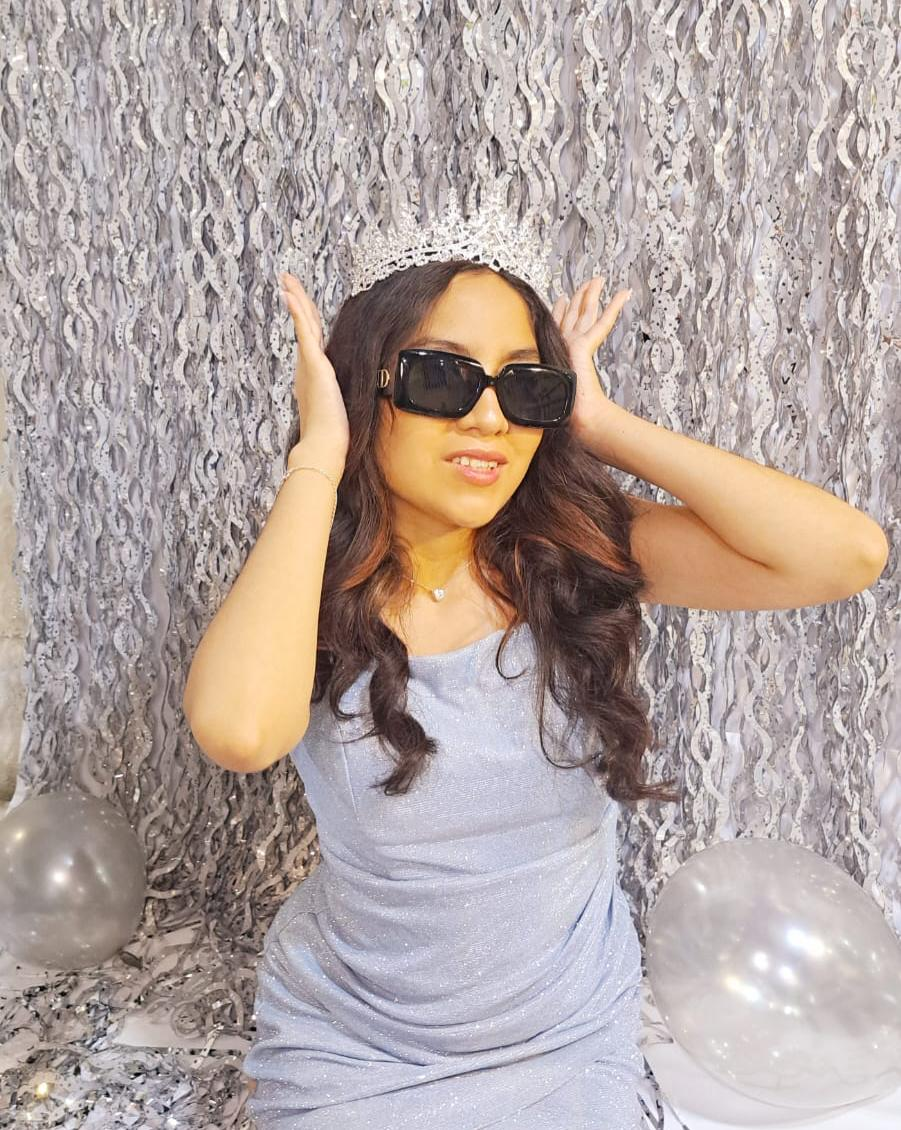
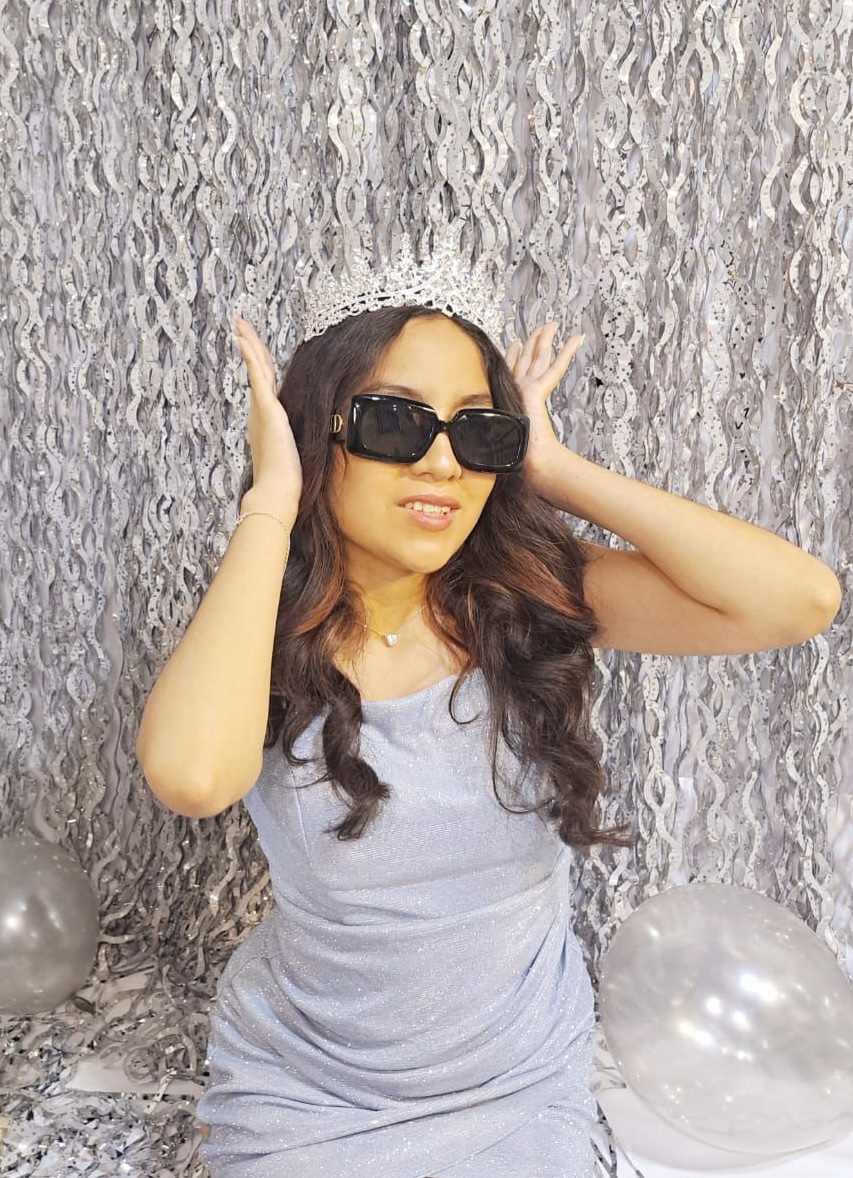
changes

diff --git a/index.html b/index.html
@@ -15,16 +15,16 @@
     <!-- Preconnect and Load Fonts -->
     <link rel="preconnect" href="https://fonts.googleapis.com">
     <link rel="preconnect" href="https://fonts.gstatic.com" crossorigin>
-    <link href="https://fonts.googleapis.com/css2?family=Cormorant+Infant:ital,wght@0,300..700;1,300..700&amp;family=Imperial+Script&amp;display=swap" rel="stylesheet">
+    <link href="https://fonts.googleapis.com/css2?family=Cormorant+Infant:ital,wght@0,300..700;1,300..700&family=Dancing+Script:wght@400..700&display=swap" rel="stylesheet">
     <script src="https://cdn.lordicon.com/lordicon.js"></script>
 </head>
 <body>
-
+    <div id="star-container"></div>
     <!-- Sobre de la Invitación -->
     <div id="envelope">
         <div id="envelope-top"></div>
         <div id="seal">
-            <h2 class="fade-in-element visible" style="transition-delay: 0s;">Mis Quince Tita</h2>
+            <h2 class="fade-in-element visible" style="transition-delay: 0s;">Mis Quince Carmencita</h2>
         </div>
         <div id="envelope-bottom"></div>
     </div>
@@ -40,7 +40,7 @@
 
         <!-- 1. Foto de la quinceañera -->
         <div class="section-main fade-in-element">
-            <img src="/imagenes/main.png" alt="Foto de la quinceañera" width="100%">
+            <img src="/imagenes/foto-principal (6).png" alt="Foto de la quinceañera" width="100%">
         </div>
 
         <!-- 2. Fecha de los quinceaños -->
@@ -84,7 +84,7 @@
         <!-- 3 & 4. Bendición y Padres -->
         <div class="section-b fade-in-element">
             <p>Agradecidos con Dios y bajo su bendición, queremos celebrar los quinceaños de nuestra amada princesita.</p>
-            <h1>Lusi Armando</h1>
+            <h1>Luis Armando</h1>
             <h2>&</h2>
             <h1>Alma Edith</h1>
         </div>
@@ -107,7 +107,7 @@
                 colors="primary:#d4af37,secondary:#F0F8FF"
                 style="width:200px;height:200px">
             </lord-icon>
-            <p>Para nosotros es muy importante que confirmes tu asistencia antes del 20 de Julio, o bien indicarnos si no podrás acompañarnos.</p>
+            <p>Para nosotros es muy importante que confirmes tu asistencia antes del 20 de Junio, o bien indicarnos si no podrás acompañarnos.</p>
             <button onclick="confirmarAsistencia()">Confirmar</button>
             <div id="confirmacion"></div>
         </div>
@@ -119,25 +119,6 @@
 
         <!-- 5 & 6. Itinerario -->
         <div class="section fade-in-element">
-            <div class="ceremony fade-in-element">
-                <lord-icon
-                    src="https://cdn.lordicon.com/jqmftaai.json"
-                    trigger="loop"
-                    delay="2000"
-                    stroke="light"
-                    colors="primary:#d4af37,secondary:#F0F8FF"
-                    style="width:200px;height:200px">
-                </lord-icon>
-                <h2>Ceremonia</h2>
-                <p>Pendiente</p>
-                <div class="details">
-                    <div class="time-location">
-                        <span class="time">18:30 hrs</span>
-                    </div>
-                    <p>pendiente</p>
-                    <button type="button" class="direction-button" onclick="elegirAplicacionOtraDireccion()">Cómo llegar</button>
-                </div>
-            </div>
             <div class="party fade-in-element">
                 <lord-icon
                     src="https://cdn.lordicon.com/nsgykrsg.json"
@@ -172,7 +153,7 @@
                 colors="primary:#d4af37,secondary:#F0F8FF"
                 style="width:200px;height:200px">
             </lord-icon>
-            <h2>Lluvia de Sobres</h2>
+            <h2>Lluvia de  Sobres</h2>
             <p>Lo que más queremos es compartir contigo nuestro gran día, pero agradecemos mucho el gesto de un obsequio. Tendremos un cofre en la entrada para que puedas dejar tu sobre con efectivo</p>
             <p>¡Gracias!</p>
         </div>
@@ -200,15 +181,10 @@
         <!-- Dress Code -->
         <div class="section fade-in-element">
             <h2>Dress Code</h2>
-            <lord-icon
-                src="https://cdn.lordicon.com/okgbpdra.json"
-                trigger="loop"
-                delay="2000"
-                stroke="light"
-                colors="primary:#d4af37,secondary:#F0F8FF"
-                style="width:200px;height:200px">
-            </lord-icon>
-            <p>Celeste y azul reservado para la quinceañera</p>
+            <div class="section fade-in-element">
+              <img src="/imagenes/dress-code.png"  alt="Icono Dress Code" class="dress-icon">           
+              <p>Celeste y azul reservado para la quinceañera</p>
+            </div>
         </div>
 
         <!-- Div decorativo -->
@@ -274,5 +250,6 @@
 
     <script src="/loads.js"></script>
     <script src="/script.js"></script>
+    <script src="/starfalls.js"></script>
 </body>
 </html>

diff --git a/style.css b/style.css
@@ -1,5 +1,5 @@
 :root {
-    --font-1: "Imperial Script", cursive;
+    --font-1: "Dancing Script", cursive;
     --font-2: "Cormorant Infant", serif;
     --color-text: SteelBlue;
 }
@@ -28,27 +28,35 @@ body {
 #envelope:hover {
     transform: scale(1.05);
 }
-/* Parte superior del sobre (solapa) */
-#envelope-top {
-    top: 0;
-    border-bottom: none;
-}
-/* Parte inferior del sobre (cuerpo) */
+/* Reglas comunes para ambas mitades */
+#envelope-top,
 #envelope-bottom {
-    bottom: 0;
-    border-top: none;
+  position: absolute;
+  width: 100%;
+  height: 50%;
+  transition: transform 0.5s ease-in-out, opacity 0.5s ease-in-out;
+  box-shadow: 0 0 10px rgba(0, 0, 0, 0.216);
+  background-size: cover;
+  background-position: center;
+  background-repeat: no-repeat;
 }
-#envelope-top, #envelope-bottom {
-    position: absolute;
-    width: 100%;
-    height: 50%;
-    transition: transform 0.5s ease-in-out, opacity 0.5s ease-in-out;
-    background-image: url(/imagenes/sobre.png);
-    box-shadow: 0 0 10px rgba(0, 0, 0, 0.216);
-    background-size: cover;
-    background-position: center;
-    background-repeat: no-repeat;
+
+/* Solapa del sobre (parte superior) */
+#envelope-top {
+  top: 0;
+  border-bottom: none;
+  /* Aquí pones la imagen que quieras para la solapa */
+  background-image: url('/imagenes/s-a.jpg');
 }
+
+/* Cuerpo del sobre (parte inferior) */
+#envelope-bottom {
+  bottom: 0;
+  border-top: none;
+  /* Aquí pones la imagen que quieras para el cuerpo */
+  background-image: url('/imagenes/s-b.jpg');
+}
+
 /* Sello del sobre */
 #seal {
     position: absolute;
@@ -120,7 +128,7 @@ body {
     font-style: italic;
     font-size: 70px;
     white-space: nowrap;
-    margin-top: 240px;
+    margin-top: 200px;
     background: linear-gradient(to right, #b29a68, #d4af37, #ffd700, #d4af37, #b29a68);
     -webkit-background-clip: text;
     color: transparent;
@@ -138,13 +146,21 @@ body {
     font-style: italic;
     font-size: 80px;
     white-space: nowrap;
-    margin-top: 360px;
+    margin-top: 400px;
     background: linear-gradient(to right, #b29a68, #d4af37, #ffd700, #d4af37, #b29a68);
     -webkit-background-clip: text;
     color: transparent;
     animation: shine 1.5s infinite linear;
-    padding: 10px;
+    padding: 30px;
 }
+.dress-icon {
+    width: 200px;
+    height: 200px;
+    object-fit: contain;
+    /* Si deseas, puedes añadir un filtro para dar un tinte dorado ligeramente:
+    filter: hue-rotate(45deg) saturate(1.2);
+    */
+  }  
 .section , .section-playlist, .section-filter, .section-quote{
     padding: 0;
     transform: translateY(20px);
@@ -547,6 +563,52 @@ footer {
 .section-logo img{
     margin-top: 0px;
 }
+/* -------------------------------------------------------------------
+   Lluvia de estrellas doradas
+   ------------------------------------------------------------------- */
+   #star-container {
+    position: fixed;
+    top: 0;
+    left: 0;
+    width: 100%;
+    height: 100%;
+    pointer-events: none;    /* Las estrellas no interfieren con clicks */
+    overflow: hidden;
+    z-index: 1;              /* Colócalo por debajo de tu invitación (ajusta si es necesario) */
+  }
+  
+  .star {
+    position: absolute;
+    top: -10px;              /* Empieza justo por encima del viewport */
+    width: 6px;              /* Ajusta tamaño base de la estrella */
+    height: 6px;
+    background-color: #d4af37; /* Color dorado */
+    border-radius: 50%;
+    box-shadow: 0 0 8px rgba(212, 175, 55, 0.8), /* Brillo exterior */
+                0 0 4px rgba(255, 223, 100, 0.6);
+    opacity: 0.9;
+    animation-name: fall;
+    animation-timing-function: linear;
+    animation-iteration-count: infinite;
+  }
+  
+  /* A cada estrella le asignaremos un retraso y velocidad diferentes vía JS */
+  
+  /* Keyframes que llevan la estrella desde arriba a abajo de la pantalla */
+  @keyframes fall {
+    0% {
+      transform: translateY(0) rotate(0deg);
+      opacity: 0.9;
+    }
+    80% {
+      opacity: 0.6; /* Pierde algo de brillo justo antes de desaparecer */
+    }
+    100% {
+      transform: translateY(110vh) rotate(360deg);
+      opacity: 0;
+    }
+  }
+  
 /* Media Queries */
 @media (min-width: 768px) and (max-width: 1024px) {
     /* iPad Styles */

diff --git a/starfalls.js b/starfalls.js
@@ -1,0 +1,64 @@
+// starfall.js
+
+(() => {
+    // Cantidad total de estrellas que queremos “activas” a la vez
+    const NUM_ESTRELLAS = 50;
+  
+    // Rango de tamaño de cada estrella (en px)
+    const MIN_SIZE = 2;
+    const MAX_SIZE = 6;
+  
+    // Duración mínima/máxima del recorrido vertical (en segundos)
+    const MIN_DURATION = 6;
+    const MAX_DURATION = 12;
+  
+    // Referencia al contenedor
+    const container = document.getElementById("star-container");
+    if (!container) return;
+  
+    // Función auxiliar: genera un número aleatorio entre [min, max]
+    function aleatorio(min, max) {
+      return Math.random() * (max - min) + min;
+    }
+  
+    // Crea una sola estrella con parámetros aleatorios
+    function crearEstrella() {
+      const star = document.createElement("div");
+      star.classList.add("star");
+  
+      // Elegir tamaño aleatorio
+      const size = aleatorio(MIN_SIZE, MAX_SIZE);
+      star.style.width = `${size}px`;
+      star.style.height = `${size}px`;
+  
+      // Posición horizontal inicial (entre 0% y 100% del ancho)
+      const posX = aleatorio(0, window.innerWidth);
+      star.style.left = `${posX}px`;
+  
+      // Asignar una velocidad/duración aleatoria para la animación
+      const duracion = aleatorio(MIN_DURATION, MAX_DURATION);
+      star.style.animationDuration = `${duracion}s`;
+  
+      // Asignar un retraso aleatorio para que no caigan todas simultáneamente
+      const delay = aleatorio(0, MAX_DURATION);
+      star.style.animationDelay = `${delay}s`;
+  
+      // Cuando termine su animación, eliminamos el nodo y creamos uno nuevo
+      star.addEventListener("animationend", () => {
+        star.remove();
+        crearEstrella(); // Para mantener siempre la misma cantidad en pantalla
+      });
+  
+      container.appendChild(star);
+    }
+  
+    // Inicializamos un bucle para crear varias estrellas
+    for (let i = 0; i < NUM_ESTRELLAS; i++) {
+      crearEstrella();
+    }
+  
+    // Opcional: si quieres que en redimensionar la ventana se ajusten,
+    // podrías recrear las estrellas limpiando el contenedor y volviendo a llamar a crearEstrella(),
+    // pero a efectos sencillos no es necesario.
+  })();
+  
